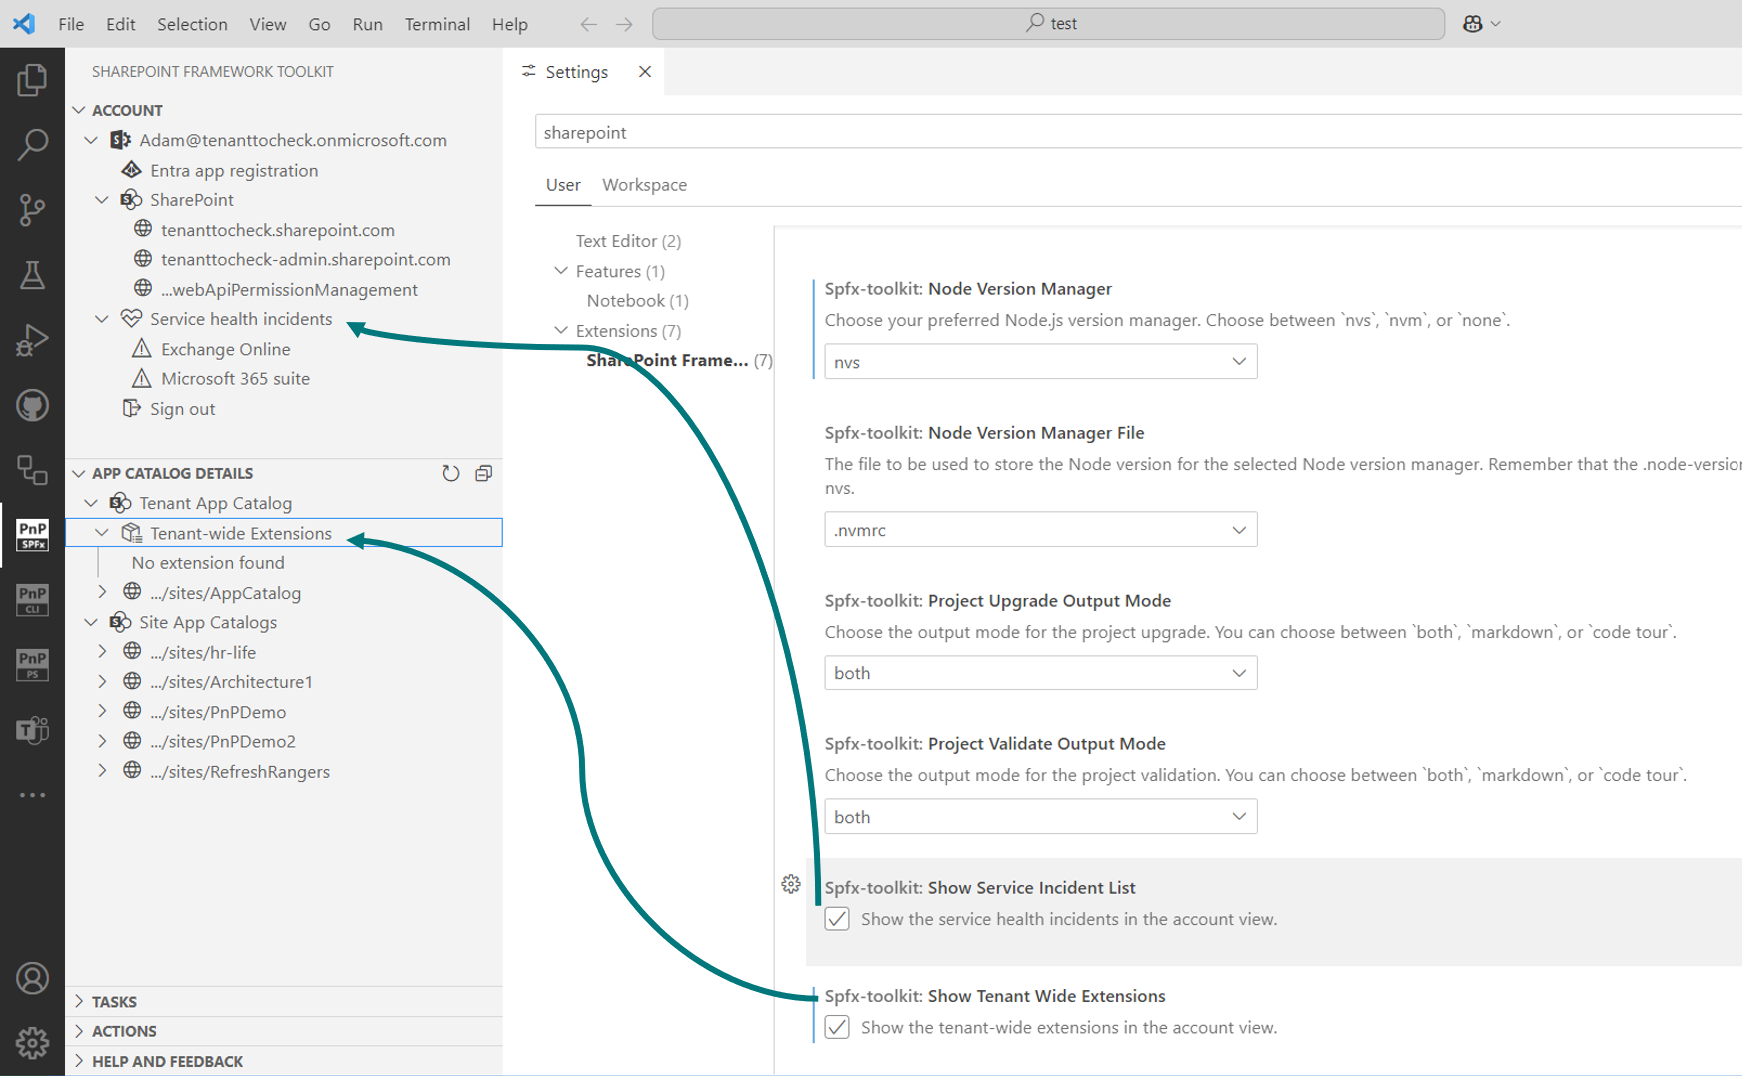
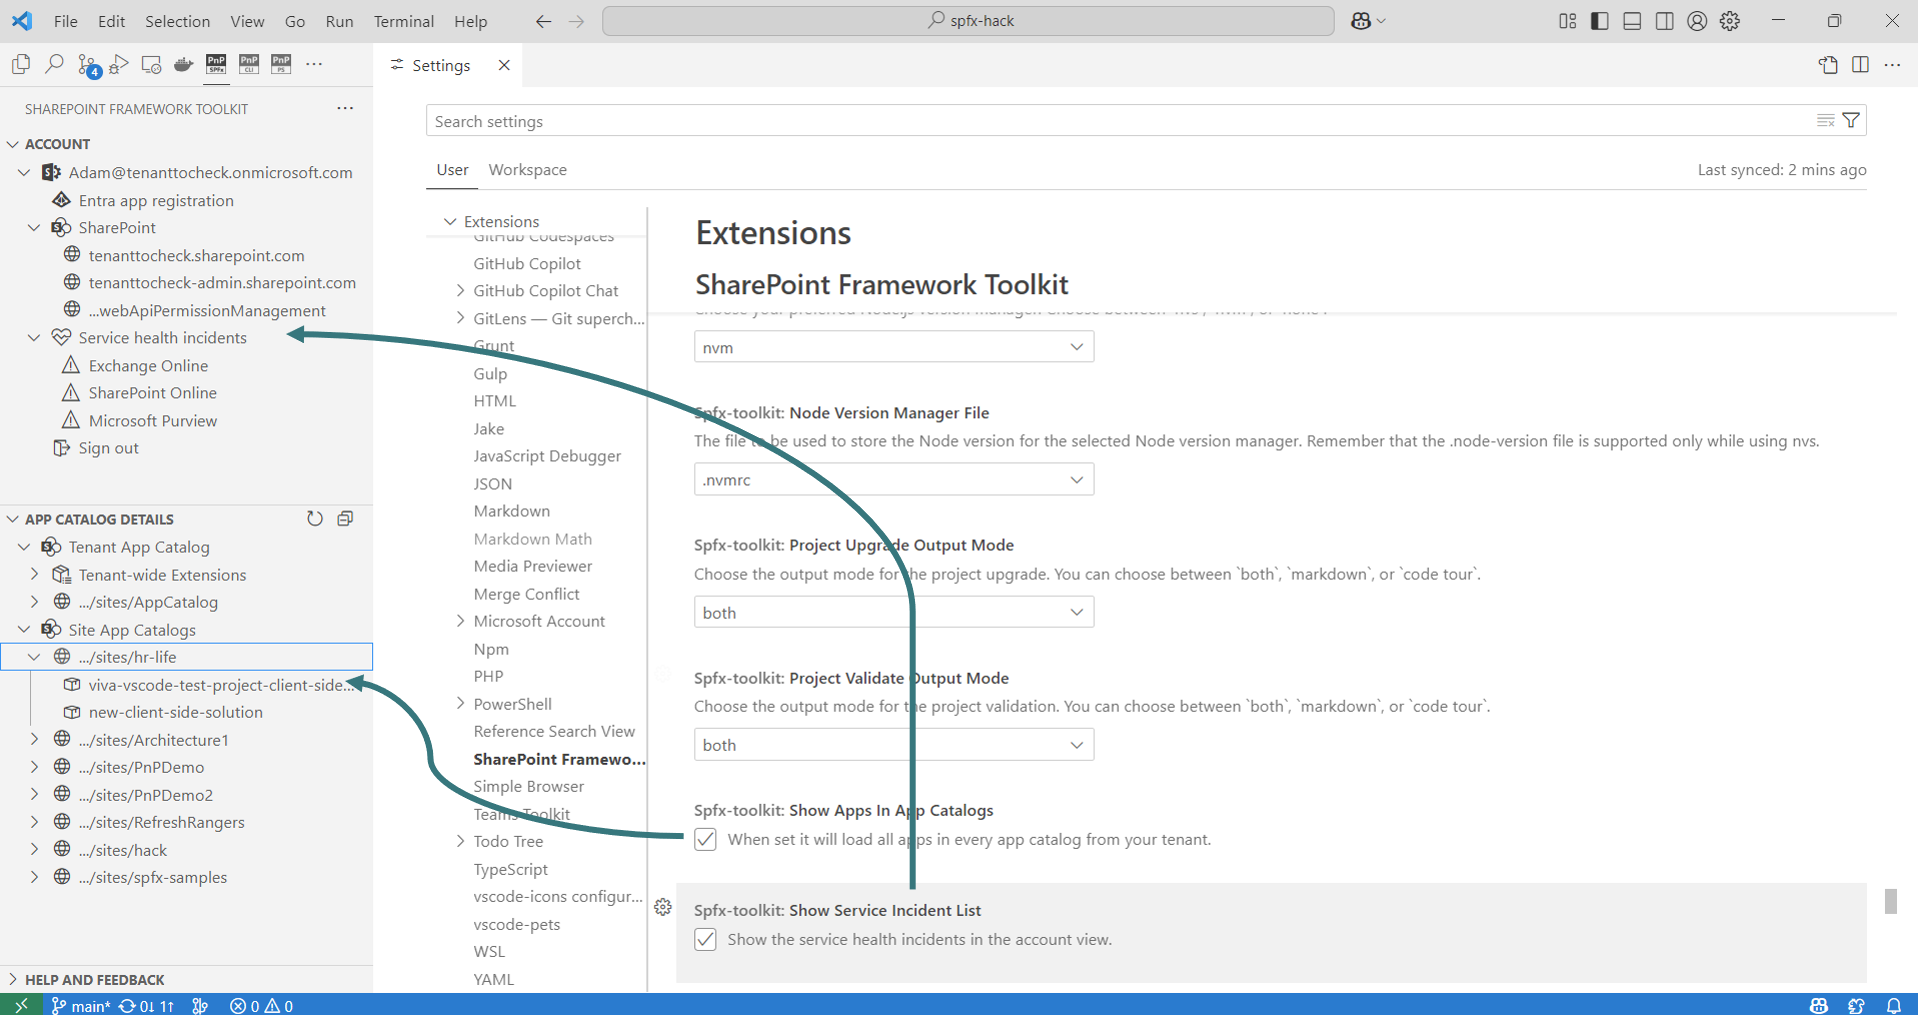
Updates docs

diff --git a/README.md b/README.md
@@ -161,7 +161,7 @@ Additionally, it will show you all tenant-wide extensions installed on your tena
 
 ![tenant details](./assets/images/app-catalog-list.png)
 
-Using the extension settings you may choose show or hide the tenant-wide extensions list and tenant health incidents list.
+Using the extension settings you may choose to show or hide the apps in app catalog list and tenant health incidents list.
 
 ![settings](./assets/images/settings.png)
 
@@ -244,6 +244,12 @@ And the code tour guidance will provide you upgrade tips directly in your code!
 ![Set Form Customizer](./assets/images/set-form-customizer-action.png)
 
 [Check out our docs for more details](https://github.com/pnp/vscode-viva/wiki/5.5-Actions#set-form-customizer)
+
+- **Increase project version** - This action allows you to increase project major, minor or patch varsion and automatically align the versioning between `package.json` and `package-solution.json` files.
+
+![Increase project version](./assets/images/increase-versioning.png)
+
+[Check out our docs for more details](https://github.com/pnp/vscode-viva/wiki/5.5-Actions#increase-project-version)
 
 - **Open sample/scenario galleries of the SPFx web part, extensions, or ACEs projects** - SharePoint Framework Toolkit supports a couple of sample galleries that may be used to scaffold a new SPFx project. 
 

diff --git a/assets/walkthrough/actions.md b/assets/walkthrough/actions.md
@@ -60,6 +60,18 @@ And the code tour guidance will provide you upgrade tips directly in your code!
 
 [Check out our docs for more details](https://github.com/pnp/vscode-viva/wiki/5.5-Actions#add-new-component)
 
+- **Set Form Customizer** - Allows to update the New, Edit or View from of any SharePoint List to a given SPFx Form Customizer based on provided GUID. 
+
+![Set Form Customizer](../images/set-form-customizer-action.png)
+
+[Check out our docs for more details](https://github.com/pnp/vscode-viva/wiki/5.5-Actions#set-form-customizer)
+
+- **Increase project version** - This action allows you to increase project major, minor or patch varsion and automatically align the versioning between `package.json` and `package-solution.json` files.
+
+![Increase project version](../images/increase-versioning.png)
+
+[Check out our docs for more details](https://github.com/pnp/vscode-viva/wiki/5.5-Actions#increase-project-version)
+
 - **Open sample/scenario galleries of the SPFx web part, extensions, or ACEs projects** - SharePoint Framework Toolkit supports a couple of sample galleries that may be used to scaffold a new SPFx project. 
 
 [Check out our docs for more details](https://github.com/pnp/vscode-viva/wiki/5.5-Actions#open-samplescenario-galleries-of-the-spfx-web-part-extensions-or-aces-projects)

diff --git a/assets/walkthrough/tasks.md b/assets/walkthrough/tasks.md
@@ -12,7 +12,6 @@ test - Runs unit tests, if available, for the client-side solution project.
 package-solution - Packages the client-side solution into a SharePoint package.
 deploy-azure-storage - Deploys client-side solution project assets to Azure Storage.
 
-
 SPFx Toolkit VS Code extension shows all possible Gulp tasks one may run on an SPFx project. Don't worry about remembering all the commands, just click on the task you want to run and the extension will do the rest.
 
 ![Gulp Tasks](../images/tasks.png)
